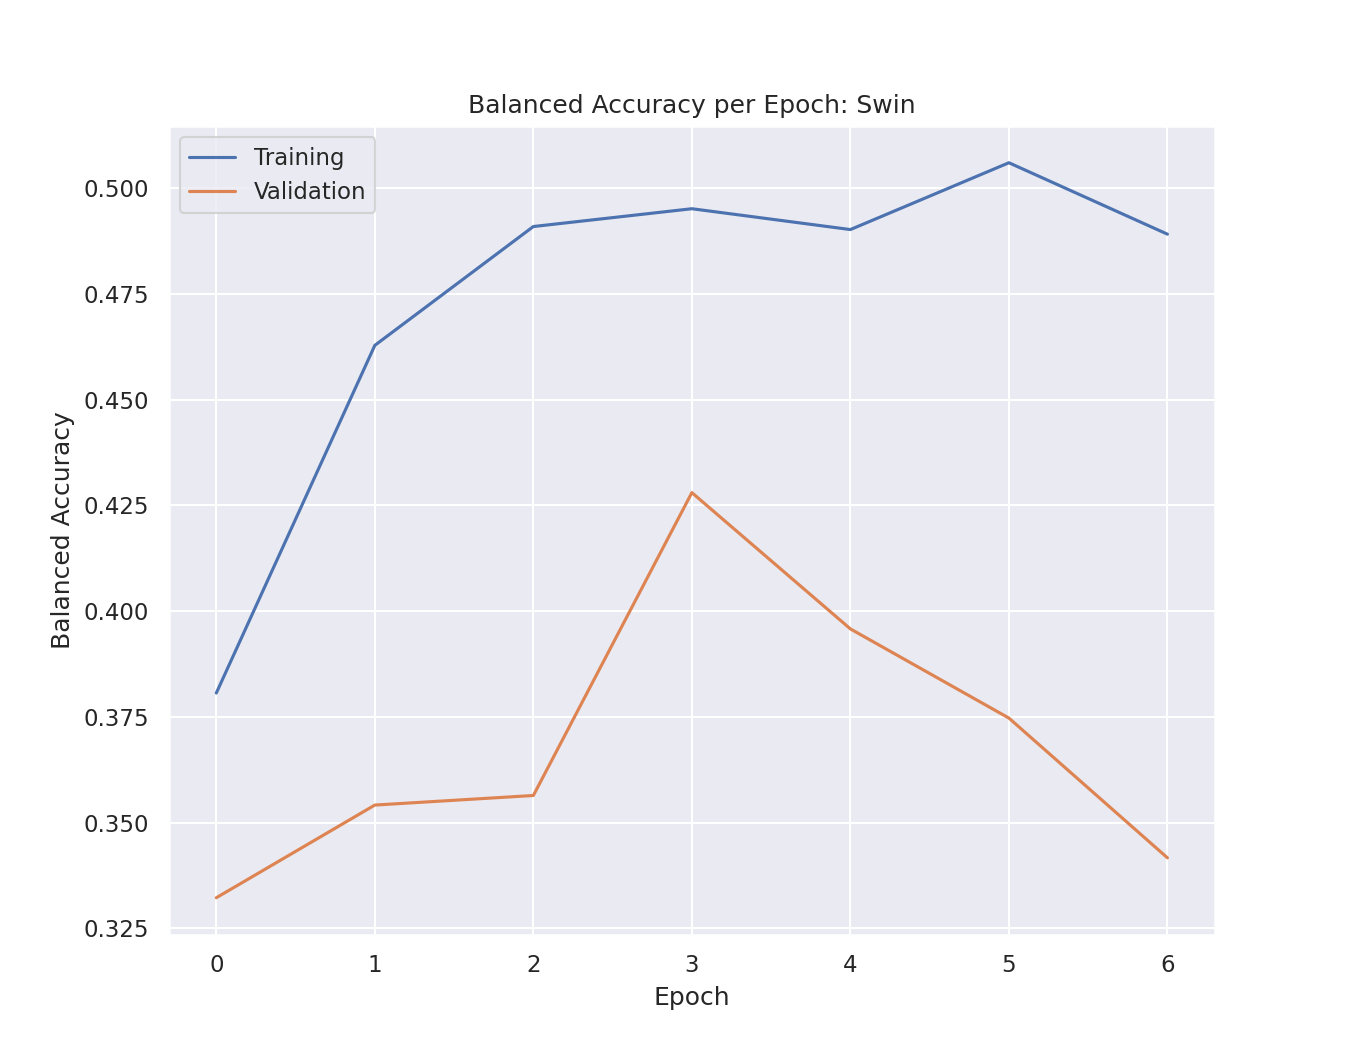
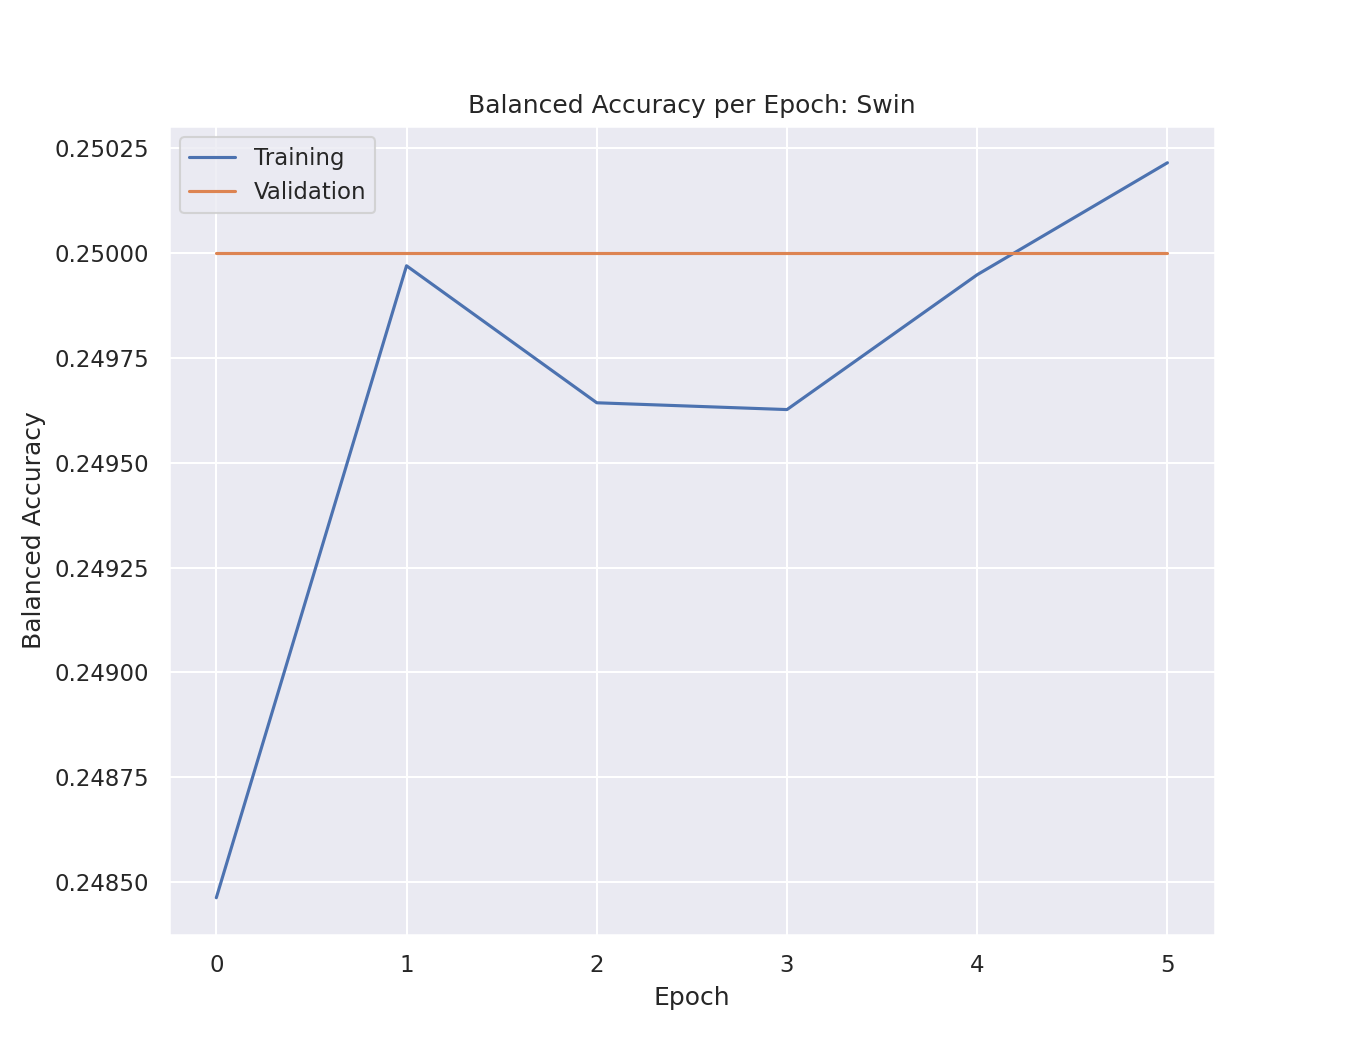
normalisation and new models

diff --git a/data/__init__.py b/data/__init__.py
@@ -52,14 +52,8 @@ class RandomNoise:
 
 def read_dataset(dataset_path):
     df = pd.read_csv(dataset_path+'data_csv/train-v2_table_list_slice.csv')
-    df.drop(df.tail(16500).index, axis=0, inplace=True)
+    # df.drop(df.tail(16500).index, axis=0, inplace=True)
     return df
-
-def mean_std(loader):
-    images, labels = next(iter(loader))
-    # shape of images = [b,c,w,h]
-    mean, std = images.mean([0,2,3]), images.std([0,2,3])
-    return mean, std
 
 def plot_augmentations(image_path, augment_list, transform, save_path):
     # Open the image file
@@ -127,23 +121,19 @@ def preprocess_dataset(df, dataset_path, n_augment, batch_size, img_size, savefi
 
     # Define transformations
     transform = transforms.Compose([
-        # transforms.Resize((224, 224), antialias=True),  # Resize images to fit ResNet input size
         transforms.Resize((img_size, img_size), antialias=True), 
-        # transforms.Grayscale(num_output_channels=1),  # Convert images to grayscale
         transforms.ToTensor(),  # Convert PIL image to PyTorch tensor
         # transforms.Normalize(mean=[0.485, 0.456, 0.406], std=[0.229, 0.224, 0.225])  # Normalize to ImageNet mean and std
-        # transforms.Normalize(mean=[0.3283, 0.3283, 0.3283], std=[0.4667, 0.4667, 0.4667])  # Normalize to dataset mean and std
-
+        transforms.Normalize(mean=[0.0824, 0.0824, 0.0824], std=[0.1355, 0.1355, 0.1355])  # Normalize to DBT dataset mean and std
     ])
 
     # Define the list of possible augmentations
     augmentations_list = [
-        
         transforms.RandomRotation(10),
         transforms.GaussianBlur(kernel_size=(5, 9), sigma=(0.1, 5)),
         RandomZoom(min_scale=1.2, max_scale=1.4),  # Random zoom
         transforms.ColorJitter(contrast=0.2),  # Random contrast
-        RandomNoise(mean=0., std=0.1),  # Random noise
+        RandomNoise(mean=0., std=0.05),  # Random noise
     ]
 
     if savefig is not None:
@@ -159,19 +149,52 @@ def preprocess_dataset(df, dataset_path, n_augment, batch_size, img_size, savefi
     # Create data loaders for training, validation and testing
     train_loader, val_loader, test_loader = create_data_loaders(train_dataset, val_dataset, test_dataset, batch_size)
 
-    # mean, std = mean_std(train_loader)
-    # print("mean and std: \n", mean, std)
+    # mean, std, min_value, max_value = calculate_statistics(train_loader)
+    # print(f"Mean: {mean}, Std: {std}, Min: {min_value}, Max: {max_value}")
+    # Mean: tensor([-0.0004, -0.0004, -0.0004]), Std: tensor([1.0003, 1.0003, 1.0003]), Min: -0.6081181168556213, Max: 6.771955490112305
 
-    # Print the class distribution before and after augmentation
-    # print_class_distribution(train_data, n_augment)
-
-
+    # Print the class distribution 
     class_counts = print_split_distribution(train_data, 'Train', n_augment)
     _ = print_split_distribution(val_data, 'Validation', n_augment)
     _ = print_split_distribution(test_data, 'Test', n_augment)
 
 
     return train_loader, val_loader, test_loader, train_dataset, val_dataset, test_dataset, class_counts
+
+def calculate_statistics(dataloader):
+    mean = 0.
+    std = 0.
+    min_value = float('inf')
+    max_value = float('-inf')
+    nb_samples = 0.
+    for data, _ in tqdm(dataloader):
+        batch_samples = data.size(0)  # batch size (the last batch can have smaller size!)
+        data = data.view(batch_samples, data.size(1), -1)  # flatten height and width into one dimension
+        mean += data.mean(2).sum(0)  # sum over the batch dimension
+        std += data.std(2).sum(0)  # sum over the batch dimension
+        min_value = min(min_value, data.min())
+        max_value = max(max_value, data.max())
+        nb_samples += batch_samples
+
+    mean /= nb_samples
+    std /= nb_samples
+    return mean, std, min_value, max_value
+
+def mean_std(loader):
+    mean = 0.
+    std = 0.
+    nb_samples = 0.
+    for data in tqdm(loader):
+        batch_samples = data.size(0)
+        data = data.view(batch_samples, data.size(1), -1)
+        mean += data.mean(2).sum(0)
+        std += data.std(2).sum(0)
+        nb_samples += batch_samples
+
+    mean /= nb_samples
+    std /= nb_samples
+
+    return mean, std
 
 def split_data(df, test_size=0.2, val_size=0.2):
     """

diff --git a/src/train.py b/src/train.py
@@ -16,12 +16,12 @@ def load_model(model_name, num_classes, from_path=None, n_layers_to_freeze=1):
         }
     elif model_name=="ConvNeXt":
         num_epochs = 2
-        batch_size = 1
-        img_size = 1200
+        batch_size = 2
+        img_size = 512
         n_layers_to_freeze = 1
         # model = load_convnext_model(num_classes, from_path)
         # model = freeze_layers(model, n_layers_to_freeze)
-        model = timm.create_model('convnextv2_large', pretrained=False, num_classes=4)
+        model = timm.create_model('convnextv2_huge.fcmae_ft_in22k_in1k_512', pretrained=True, num_classes=4)
         hyperparameters = {
             'learning_rate': 0.001,
             'beta1': 0.9,
@@ -31,10 +31,11 @@ def load_model(model_name, num_classes, from_path=None, n_layers_to_freeze=1):
     elif model_name=="ViT":
         num_epochs = 3
         batch_size = 16
-        img_size = 384 #fixed
+        img_size = 512
         n_layers_to_freeze = 1
-        model = load_vit_model(num_classes, from_path)
-        model = freeze_layers(model, n_layers_to_freeze)
+        model = timm.create_model('maxvit_base_tf_512.in21k_ft_in1k', pretrained=True, num_classes=4)
+        # model = load_vit_model(num_classes, from_path)
+        # model = freeze_layers(model, n_layers_to_freeze)
         hyperparameters = {
             'learning_rate': 0.001,
             'beta1': 0.9,
@@ -44,11 +45,11 @@ def load_model(model_name, num_classes, from_path=None, n_layers_to_freeze=1):
         
     elif model_name=="Swin":
         num_epochs = 6
-        batch_size = 8
-        img_size = 1200
-        n_layers_to_freeze = 1
+        batch_size = 2
+        img_size = 1024
+        n_layers_to_freeze = 0
         model = load_swin_model(num_classes, from_path)
-        model = freeze_layers(model, n_layers_to_freeze)
+        # model = freeze_layers(model, n_layers_to_freeze)
         hyperparameters = {
             'learning_rate': 0.0005,
             'beta1': 0.9,
@@ -115,7 +116,7 @@ def load_swin_model(num_classes, saved_weights_path=None):
     # model = models.swin_v2_b(weights='DEFAULT')
 
     # Load not pre trained model
-    model = models.swin_v2_b(weights=None)
+    model = models.swin_v2_s(weights=None)
 
     # print(model)
     

diff --git a/src/main.py b/src/main.py
@@ -9,7 +9,7 @@ def fine_tuning(model_name, verbose, device):
     # Read dataset
     df = read_dataset(dataset_path)
 
-    n_augment = 16
+    n_augment = 14
     num_classes = 4
 
     model, hyperparameters, num_epochs, batch_size, img_size, n_layers_to_freeze = load_model(model_name, num_classes)
@@ -32,6 +32,15 @@ def fine_tuning(model_name, verbose, device):
         #     col_width=20,
         #     row_settings=["var_names"]
         # )
+    
+    print(f"\nTRAINING\n")
+
+    print(f"Learning Rate: {hyperparameters['learning_rate']}")
+    print(f"Beta1: {hyperparameters['beta1']}")
+    print(f"Beta2: {hyperparameters['beta2']}")
+    print(f"Weight Decay: {hyperparameters['weight_decay']}")
+    print(f"n_augment: {n_augment}")
+    print(f"n_freeze: {n_layers_to_freeze}\n")
 
     criterion, optimizer = get_loss_optimizer(model, hyperparameters, class_counts, device)
     
@@ -73,6 +82,15 @@ def training_from_scratch(model_name, verbose, device):
         )
 
     criterion, optimizer = get_loss_optimizer(model, hyperparameters, class_counts, device)
+
+    print(f"\nTRAINING\n")
+
+    print(f"Learning Rate: {hyperparameters['learning_rate']}")
+    print(f"Beta1: {hyperparameters['beta1']}")
+    print(f"Beta2: {hyperparameters['beta2']}")
+    print(f"Weight Decay: {hyperparameters['weight_decay']}")
+    print(f"n_augment: {n_augment}")
+    print(f"n_freeze: {0}\n")
     
     train_model(model, criterion, optimizer, train_loader, val_loader, test_loader, \
                     unique_labels, device, num_epochs, batch_size, n_augment, n_layers_to_freeze, model_name, save_weights=save_weights_path, \
@@ -91,9 +109,9 @@ def main():
 
     print("Device",device)
 
-    # fine_tuning(model_name, verbose, device)
+    fine_tuning(model_name, verbose, device)
 
-    training_from_scratch(model_name, verbose, device)
+    # training_from_scratch(model_name, verbose, device)
 
 
 if __name__ == "__main__":
